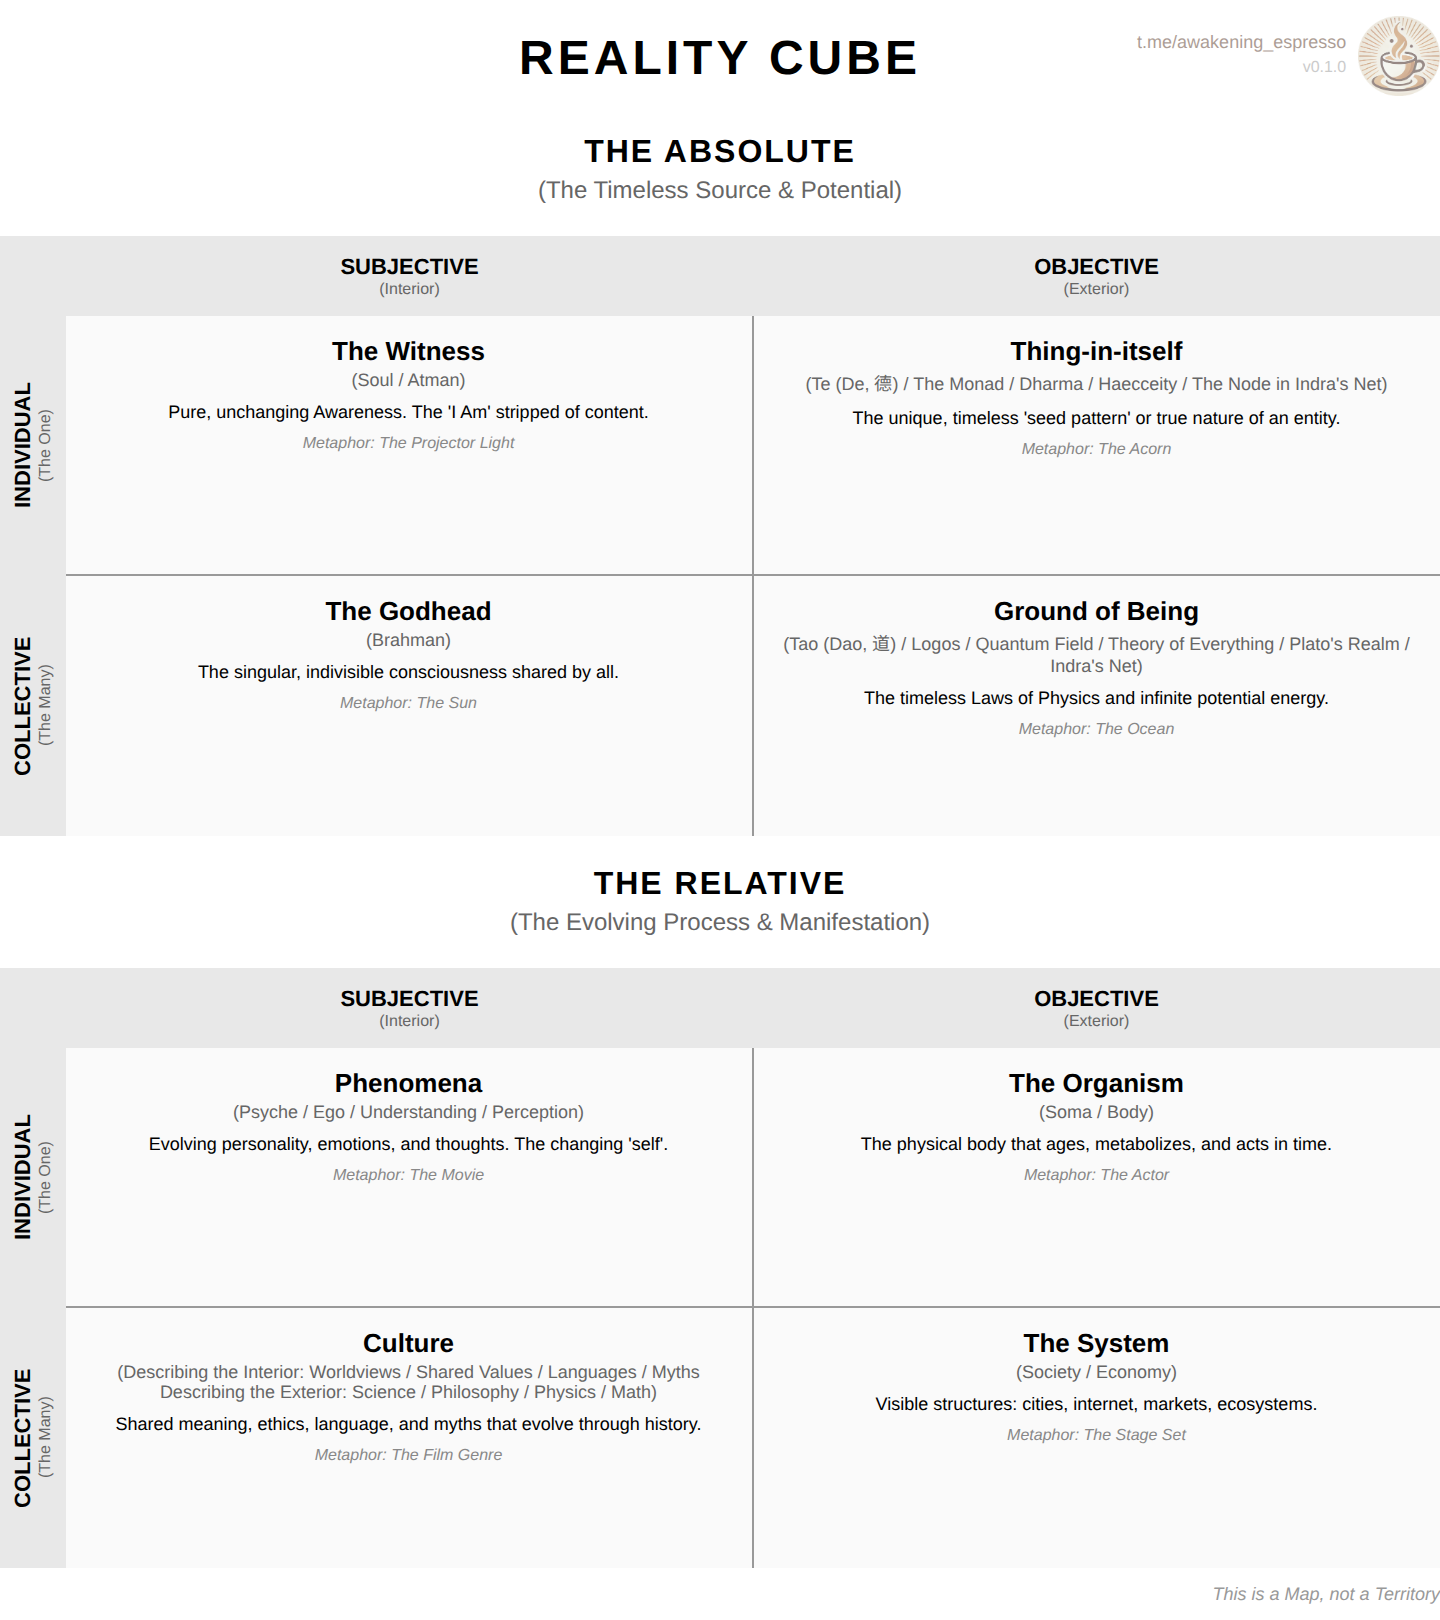
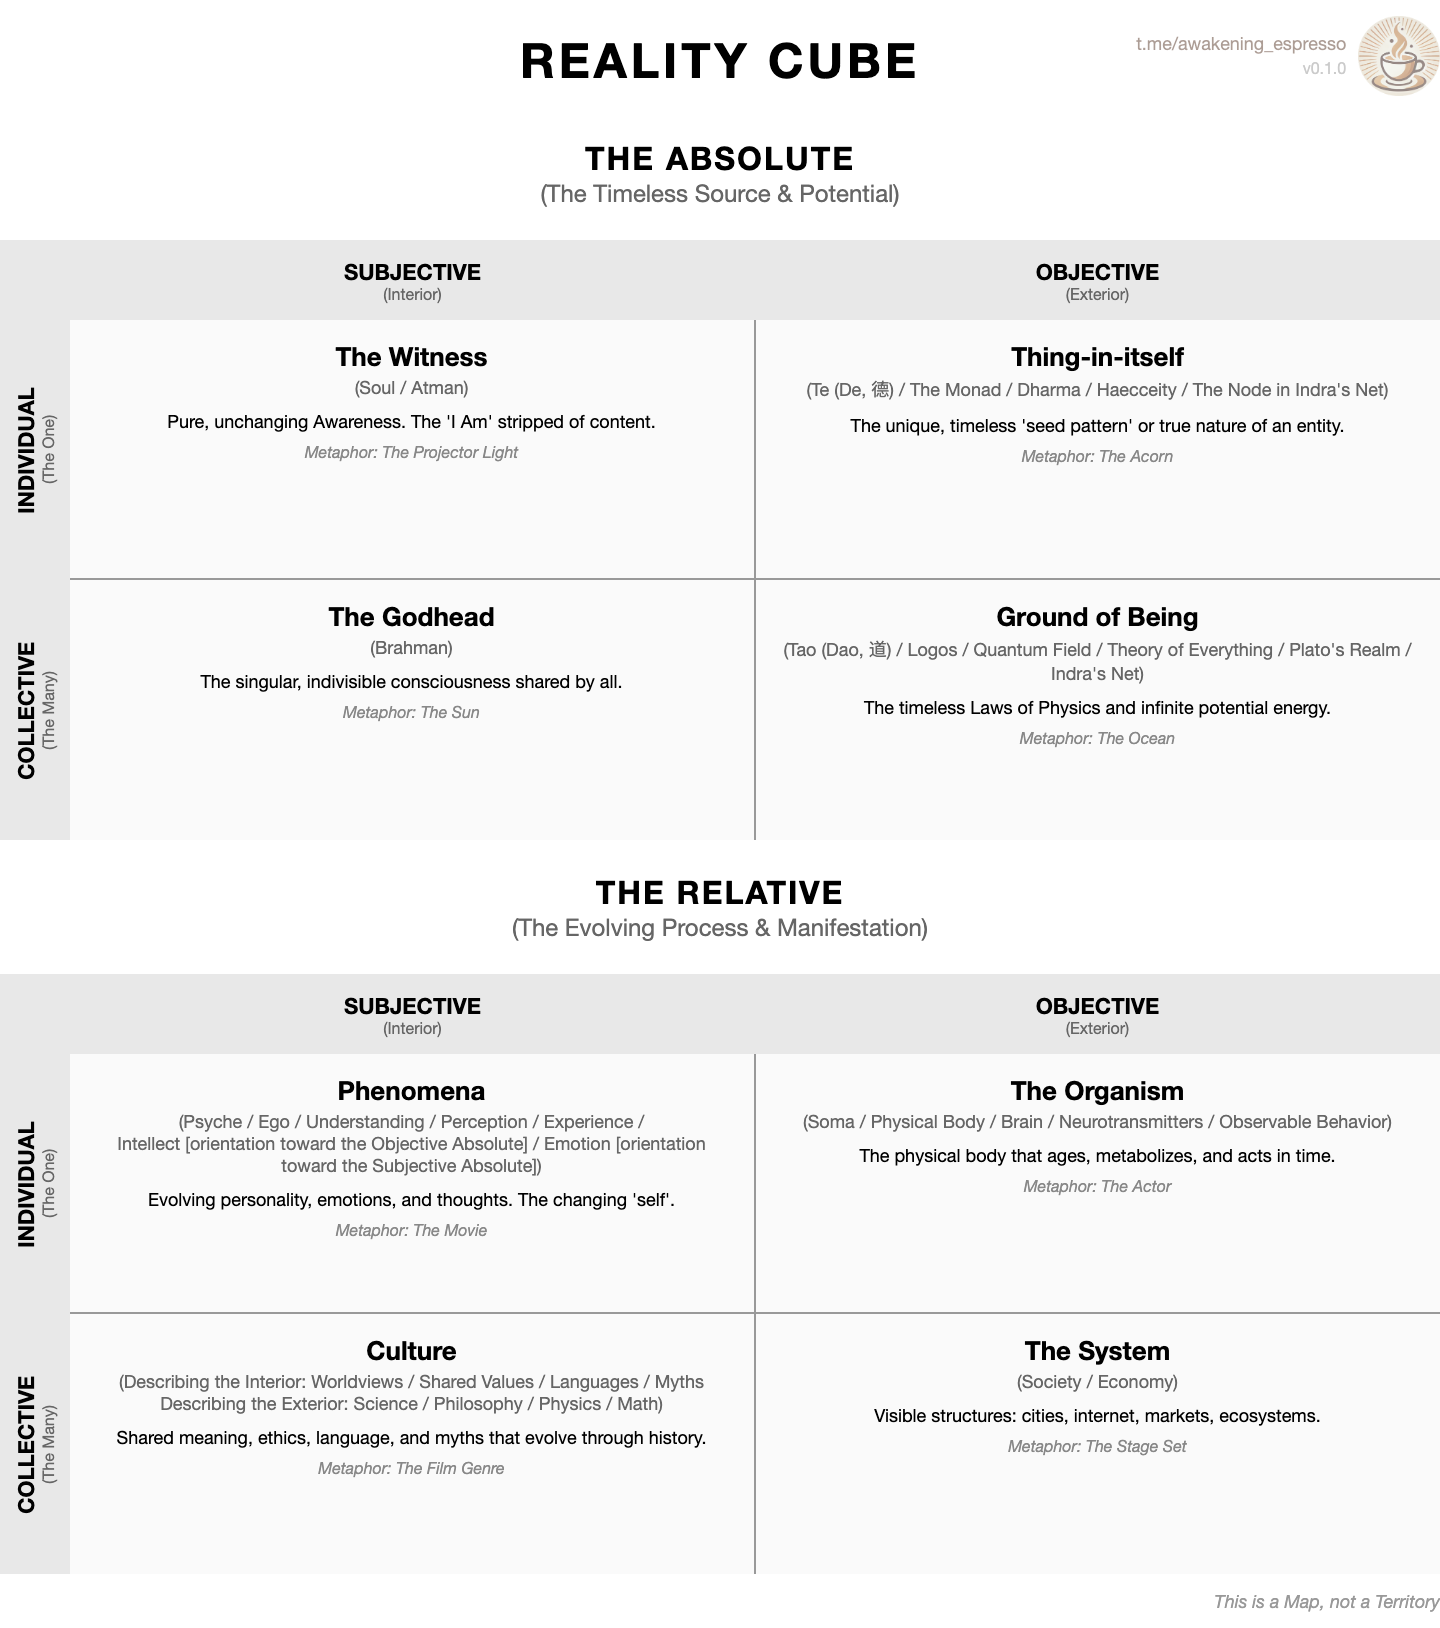
improve

diff --git a/template.html b/template.html
@@ -86,11 +86,11 @@
         <div class="header"><strong>SUBJECTIVE</strong><span class="hint">(Interior)</span></div>
         <div class="header"><strong>OBJECTIVE</strong><span class="hint">(Exterior)</span></div>
         <div class="header left"><strong>INDIVIDUAL</strong><span class="hint">(The One)</span></div>
-        <div class="cell tl"><h3>{{ wall.quadrants.individual_subjective.title }}</h3><div class="sub">{{ wall.quadrants.individual_subjective.sub }}</div><div class="desc">{{ wall.quadrants.individual_subjective.desc }}</div><div class="meta">{{ wall.quadrants.individual_subjective.meta }}</div></div>
-        <div class="cell tr"><h3>{{ wall.quadrants.individual_objective.title }}</h3><div class="sub">{{ wall.quadrants.individual_objective.sub }}</div><div class="desc">{{ wall.quadrants.individual_objective.desc }}</div><div class="meta">{{ wall.quadrants.individual_objective.meta }}</div></div>
+        <div class="cell tl"><h3>{{ wall.quadrants.individual_subjective.title }}</h3><div class="sub">{{ wall.quadrants.individual_subjective.sub | replace('\n', '<br>') | safe }}</div><div class="desc">{{ wall.quadrants.individual_subjective.desc }}</div><div class="meta">{{ wall.quadrants.individual_subjective.meta }}</div></div>
+        <div class="cell tr"><h3>{{ wall.quadrants.individual_objective.title }}</h3><div class="sub">{{ wall.quadrants.individual_objective.sub | replace('\n', '<br>') | safe }}</div><div class="desc">{{ wall.quadrants.individual_objective.desc }}</div><div class="meta">{{ wall.quadrants.individual_objective.meta }}</div></div>
         <div class="header left"><strong>COLLECTIVE</strong><span class="hint">(The Many)</span></div>
-        <div class="cell bl"><h3>{{ wall.quadrants.collective_subjective.title }}</h3><div class="sub">{{ wall.quadrants.collective_subjective.sub }}</div><div class="desc">{{ wall.quadrants.collective_subjective.desc }}</div><div class="meta">{{ wall.quadrants.collective_subjective.meta }}</div></div>
-        <div class="cell br"><h3>{{ wall.quadrants.collective_objective.title }}</h3><div class="sub">{{ wall.quadrants.collective_objective.sub }}</div><div class="desc">{{ wall.quadrants.collective_objective.desc }}</div><div class="meta">{{ wall.quadrants.collective_objective.meta }}</div></div>
+        <div class="cell bl"><h3>{{ wall.quadrants.collective_subjective.title }}</h3><div class="sub">{{ wall.quadrants.collective_subjective.sub | replace('\n', '<br>') | safe }}</div><div class="desc">{{ wall.quadrants.collective_subjective.desc }}</div><div class="meta">{{ wall.quadrants.collective_subjective.meta }}</div></div>
+        <div class="cell br"><h3>{{ wall.quadrants.collective_objective.title }}</h3><div class="sub">{{ wall.quadrants.collective_objective.sub | replace('\n', '<br>') | safe }}</div><div class="desc">{{ wall.quadrants.collective_objective.desc }}</div><div class="meta">{{ wall.quadrants.collective_objective.meta }}</div></div>
     </div>
 </div>
 {% endfor %}

diff --git a/index.html b/index.html
@@ -104,11 +104,10 @@
         <div class="header"><strong>SUBJECTIVE</strong><span class="hint">(Interior)</span></div>
         <div class="header"><strong>OBJECTIVE</strong><span class="hint">(Exterior)</span></div>
         <div class="header left"><strong>INDIVIDUAL</strong><span class="hint">(The One)</span></div>
-        <div class="cell tl"><h3>Phenomena</h3><div class="sub">(Psyche / Ego / Understanding / Perception)</div><div class="desc">Evolving personality, emotions, and thoughts. The changing 'self'.</div><div class="meta">Metaphor: The Movie</div></div>
-        <div class="cell tr"><h3>The Organism</h3><div class="sub">(Soma / Body)</div><div class="desc">The physical body that ages, metabolizes, and acts in time.</div><div class="meta">Metaphor: The Actor</div></div>
+        <div class="cell tl"><h3>Phenomena</h3><div class="sub">(Psyche / Ego / Understanding / Perception / Experience /<br>Intellect [orientation toward the Objective Absolute] / Emotion [orientation toward the Subjective Absolute])</div><div class="desc">Evolving personality, emotions, and thoughts. The changing 'self'.</div><div class="meta">Metaphor: The Movie</div></div>
+        <div class="cell tr"><h3>The Organism</h3><div class="sub">(Soma / Physical Body / Brain / Neurotransmitters / Observable Behavior)</div><div class="desc">The physical body that ages, metabolizes, and acts in time.</div><div class="meta">Metaphor: The Actor</div></div>
         <div class="header left"><strong>COLLECTIVE</strong><span class="hint">(The Many)</span></div>
-        <div class="cell bl"><h3>Culture</h3><div class="sub">(Describing the Interior: Worldviews / Shared Values / Languages / Myths
- Describing the Exterior: Science / Philosophy / Physics / Math)</div><div class="desc">Shared meaning, ethics, language, and myths that evolve through history.</div><div class="meta">Metaphor: The Film Genre</div></div>
+        <div class="cell bl"><h3>Culture</h3><div class="sub">(Describing the Interior: Worldviews / Shared Values / Languages / Myths<br> Describing the Exterior: Science / Philosophy / Physics / Math)</div><div class="desc">Shared meaning, ethics, language, and myths that evolve through history.</div><div class="meta">Metaphor: The Film Genre</div></div>
         <div class="cell br"><h3>The System</h3><div class="sub">(Society / Economy)</div><div class="desc">Visible structures: cities, internet, markets, ecosystems.</div><div class="meta">Metaphor: The Stage Set</div></div>
     </div>
 </div>

diff --git a/README.md b/README.md
@@ -2,3 +2,5 @@
 Mapping everything
 
 ![Reality Cube](reality_cube.png)
+
+Note: The bottom half (The Relative) was first described by Ken Wilber in his Integral Theory.
